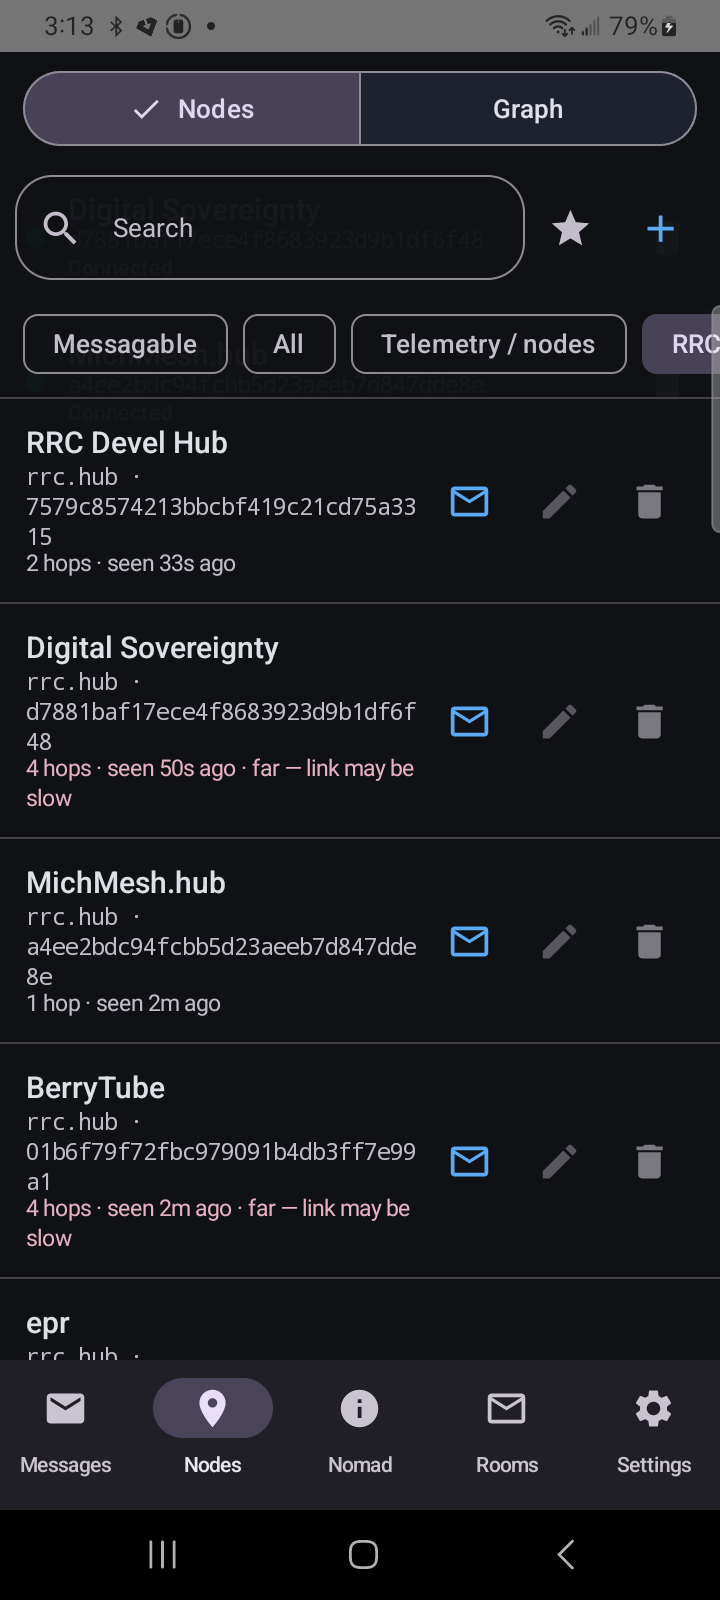
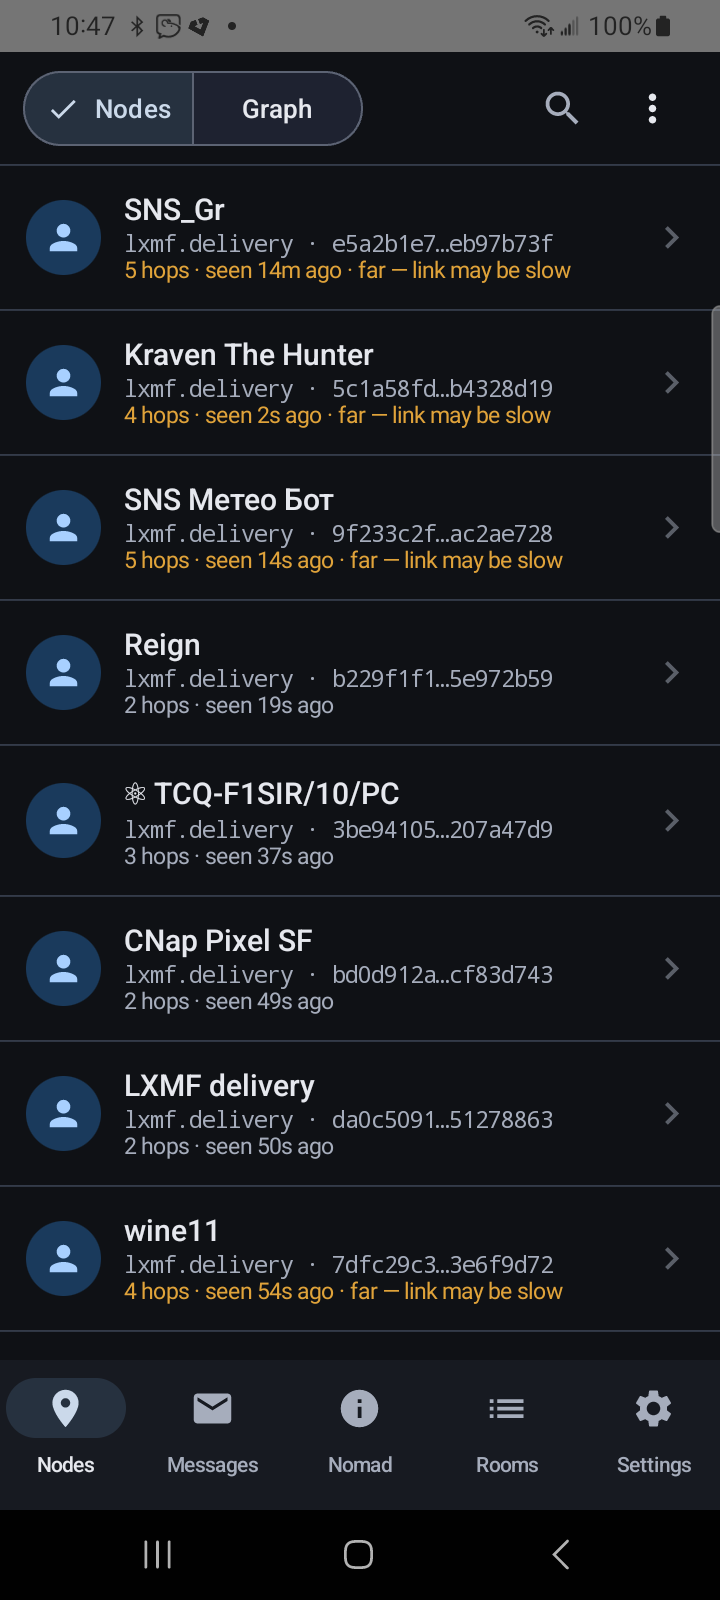
docs: refresh screenshots for the v1.2.0 redesign + fix stale copy
- docs/screenshots/*.png recaptured on the redesigned build (Messages,
  Nodes, Graph, Nomad, Rooms, Settings).
- README: the LXMF-messaging and Identity sections described the old
  Inbox/favorites/pencil-on-Nodes-row UX — rewritten for the
  Signal-style Messages list, pins, and the shared detail sheet.
- index.html: "Multi-transport settings" caption → "Grouped settings".

diff --git a/docs/index.html b/docs/index.html
@@ -201,7 +201,7 @@
       <figure class="shot">
         <img src="screenshots/settings.png" width="720" height="1600" loading="lazy"
              alt="The Settings screen showing BLE, Bluetooth Classic and TCP transport options">
-        <figcaption>Multi-transport settings</figcaption>
+        <figcaption>Grouped settings</figcaption>
       </figure>
     </div>
   </div>

diff --git a/README.md b/README.md
@@ -19,13 +19,13 @@ The protocol implementation has been verified end-to-end against live `tools/tes
 
 **Transports** — BLE NUS, Bluetooth Classic / RFCOMM (SPP), and direct TCP to a remote rnsd `TCPServerInterface`. Any combination simultaneously, with independent reconnect supervisors per kind. Per-link traffic pins to the kind that established the link; outbound LXMF + initiator LINKREQUEST to a known peer routes via hop-count-aware per-destination affinity (sticky on the shortest path so a TCP-attached mesh's re-emit of a peer's own LoRa announce can't hijack a working direct route). Only announces and path requests fan out to every attached transport. Inbound dedup is global. LoRa radio config (freq / BW / SF / CR / TX power) pushed to every attached RNode on connect, re-pushable from Settings.
 
-**LXMF messaging** — Sideband-parity link delivery as the primary outbound path (encrypted single-link DATA + per-packet PROOF awaits), with up to 5 link-establishment attempts at 10s intervals (matching LXMF's `MAX_DELIVERY_ATTEMPTS` / `DELIVERY_RETRY_WAIT`) so a single LoRa half-duplex collision on the LINKREQUEST or LRPROOF doesn't kill the whole send. Opportunistic single-packet fallback only after the full retry budget is exhausted. Multi-hop transit via §2.3 HEADER_2 conversion. Per-packet PROOF receipts on inbound link DATA, **with full Ed25519 signature verification against the responder's long-term key per spec §6.5.1** (closed a silent-message-loss vector found in the v1 security review). Inbox surfaces every sender we've received from; favorites pin a thread to the top, toggleable in place from either the Nodes tab or the Messages tab. Tap any messagable row in Nodes to jump straight into a conversation without having to favorite first. Image attachments (JPEG auto-compressed through a quality ladder to fit the Resource wire budget, EXIF-orientation-corrected so portrait and landscape shots display upright; tap an image to open it full-screen at the largest size the screen allows for its aspect ratio). Signal-style tap-back emoji reactions and swipe-right-to-reply quoting. LXMF propagation node sync (`/offer` + `/get` with the §2.3 fix and §11.1 16-byte path_hash).
+**LXMF messaging** — Sideband-parity link delivery as the primary outbound path (encrypted single-link DATA + per-packet PROOF awaits), with up to 5 link-establishment attempts at 10s intervals (matching LXMF's `MAX_DELIVERY_ATTEMPTS` / `DELIVERY_RETRY_WAIT`) so a single LoRa half-duplex collision on the LINKREQUEST or LRPROOF doesn't kill the whole send. Opportunistic single-packet fallback only after the full retry budget is exhausted. Multi-hop transit via §2.3 HEADER_2 conversion. Per-packet PROOF receipts on inbound link DATA, **with full Ed25519 signature verification against the responder's long-term key per spec §6.5.1** (closed a silent-message-loss vector found in the v1 security review). The Messages tab is a single recency-sorted conversation list — pin conversations to the top, search by name or hash. A shared destination detail sheet (tap a node on the Nodes tab, or long-press a conversation) carries the full destination hash, a QR code, and the message / pin / add-to-contacts / rename / delete actions. Image attachments (JPEG auto-compressed through a quality ladder to fit the Resource wire budget, EXIF-orientation-corrected so portrait and landscape shots display upright; tap an image to open it full-screen at the largest size the screen allows for its aspect ratio). Signal-style tap-back emoji reactions and swipe-right-to-reply quoting. LXMF propagation node sync (`/offer` + `/get` with the §2.3 fix and §11.1 16-byte path_hash).
 
 **NomadNet browser** — micron parser at upstream `MicronParser.py` parity (backtick escapes, tables, page-level `#!c=` / `#!bg=` / `#!fg=` headers, partials / server-side includes). Single-packet and Resource-fragmented pages. Form inputs (text / checkbox / radio) submit as `field_<name>` keys per `Node.py`. In-page link navigation (same-node + cross-node), history-aware Back, link reuse across page nav, opt-in `LINKIDENTIFY` for ALLOW_LIST pages. Page cache with "last pulled Xm ago", reload, clear. Search box + Favorites + Cached chips. Selectable text + LXMF link targets directly from rendered pages.
 
 **Reticulum Relay Chat (experimental)** — opt-in IRC-style group chat layered on RNS Links — the [RRC protocol](https://rrc.kc1awv.net/), CBOR envelopes exchanged over an identified Link to a hub. Enable it in Settings to get a **Rooms** tab: add a hub by its destination hash, or one-tap-promote a discovered `rrc.hub` straight from the Nodes list (RRC hubs are recognized and labelled there), then connect, join rooms, and chat. Hub / room / message history persists in its own `rrc_*` tables. **Off by default and still under development** — not yet interop-verified against a live hub; ordinary LXMF messaging is unaffected whether it's on or off.
 
-**Identity & contacts** — per-install Reticulum identity (X25519 + Ed25519, ratchet, persisted in Room / SQLDelight). QR card on Settings to share, scan others' from Nodes. **Identity export / import via passphrase-encrypted `.rmid` archives** (PBKDF2-HMAC-SHA256 → HKDF-split → AES-256-CBC + HMAC-SHA256, encrypt-then-MAC) — back up before reinstalling, migrate to a new phone, recover from device loss. Saves through the Android share sheet, imports through the file picker. Wrong passphrase / tampered bytes are indistinguishable on the wire by design. Local-only nicknames per contact (`userLabel`, never sent on the wire) win over the announced display name everywhere; tap the pencil on any Nodes row to set or clear. Manual hash entry + QR scanner for adding contacts before they announce.
+**Identity & contacts** — per-install Reticulum identity (X25519 + Ed25519, ratchet, persisted in Room / SQLDelight). QR card on Settings to share, scan others' from Nodes. **Identity export / import via passphrase-encrypted `.rmid` archives** (PBKDF2-HMAC-SHA256 → HKDF-split → AES-256-CBC + HMAC-SHA256, encrypt-then-MAC) — back up before reinstalling, migrate to a new phone, recover from device loss. Saves through the Android share sheet, imports through the file picker. Wrong passphrase / tampered bytes are indistinguishable on the wire by design. Local-only nicknames per contact (`userLabel`, never sent on the wire) win over the announced display name everywhere; set or clear one from a destination's detail sheet. Manual hash entry + QR scanner for adding contacts before they announce.
 
 **Visibility** — relay-aware Graph (`me → relay → leaf` via cached HEADER_2 transport_ids), Nodes map (osmdroid + OpenStreetMap) for destinations carrying lat/lon, per-row metadata (hop count, RSSI, last-heard age, stale/far warnings), per-message link-quality footers (RSSI + hop count on each incoming bubble), diagnostics log with copy/clear. Bottom-nav Settings icon turns red when no transport is connected. Notifications surface incoming messages while backgrounded; tap an incoming notification to open the matching conversation.
 
